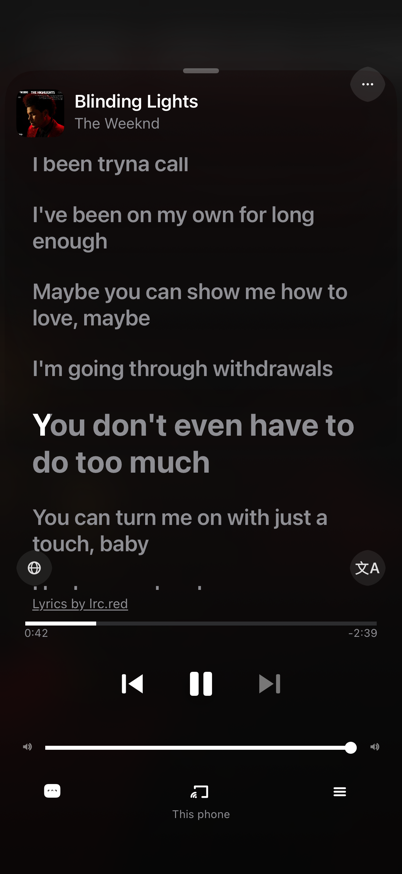
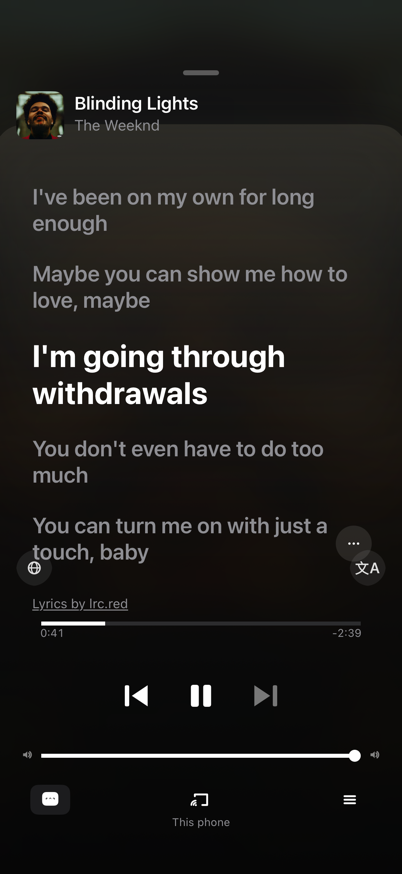
Match the player header, glyphs and empty lyrics state
Header cover/type/disc and transport sizes come from the reference capture; the
scrubber is the real 3pt track again, the footer pill is 32x22, and an empty
result now says No lyrics for this track with No lyrics found under it.

Generated with Codebuff

diff --git a/v2/BitChordIOS12/Sources/NowPlayingViewController.swift b/v2/BitChordIOS12/Sources/NowPlayingViewController.swift
@@ -14,6 +14,7 @@ final class NowPlayingViewController: UIViewController {
     private let glowLayer = CAGradientLayer()
     private let lyricsTable = UITableView(frame: .zero, style: .plain)
     private let lyricsSourceLabel = UILabel()
+    private let emptyLyricsLabel = UILabel()
     private let compactHeader = UIView()
     private let headerArtwork = UIImageView()
     private let headerTitle = UILabel()
@@ -204,18 +205,18 @@ final class NowPlayingViewController: UIViewController {
         headerArtwork.translatesAutoresizingMaskIntoConstraints = false
         headerArtwork.contentMode = .scaleAspectFill
         headerArtwork.clipsToBounds = true
-        headerArtwork.layer.cornerRadius = 10
+        headerArtwork.layer.cornerRadius = 4
         headerArtwork.backgroundColor = Theme.surfaceVariant
         compactHeader.addSubview(headerArtwork)
 
         headerTitle.translatesAutoresizingMaskIntoConstraints = false
-        headerTitle.font = Theme.font(18, weight: .semibold)
+        headerTitle.font = Theme.font(22, weight: .bold)
         headerTitle.textColor = Theme.primaryText
         headerTitle.lineBreakMode = .byTruncatingTail
         compactHeader.addSubview(headerTitle)
 
         headerArtist.translatesAutoresizingMaskIntoConstraints = false
-        headerArtist.font = Theme.font(15)
+        headerArtist.font = Theme.font(17)
         headerArtist.textColor = Theme.secondaryText
         headerArtist.lineBreakMode = .byTruncatingTail
         compactHeader.addSubview(headerArtist)
@@ -223,8 +224,8 @@ final class NowPlayingViewController: UIViewController {
         NSLayoutConstraint.activate([
             headerArtwork.leadingAnchor.constraint(equalTo: compactHeader.leadingAnchor),
             headerArtwork.centerYAnchor.constraint(equalTo: compactHeader.centerYAnchor),
-            headerArtwork.widthAnchor.constraint(equalToConstant: 48),
-            headerArtwork.heightAnchor.constraint(equalToConstant: 48),
+            headerArtwork.widthAnchor.constraint(equalToConstant: 45),
+            headerArtwork.heightAnchor.constraint(equalToConstant: 45),
             headerTitle.leadingAnchor.constraint(equalTo: headerArtwork.trailingAnchor, constant: 10),
             headerTitle.trailingAnchor.constraint(equalTo: compactHeader.trailingAnchor),
             headerTitle.bottomAnchor.constraint(equalTo: compactHeader.centerYAnchor, constant: -1),
@@ -264,8 +265,8 @@ final class NowPlayingViewController: UIViewController {
         modeButton.translatesAutoresizingMaskIntoConstraints = false
         modeButton.tintColor = Theme.primaryText
         modeButton.backgroundColor = Theme.surfaceVariant
-        modeButton.layer.cornerRadius = 8
-        modeButton.setImage(Icons.image(.bubble, size: 22), for: .normal)
+        modeButton.layer.cornerRadius = 7
+        modeButton.setImage(Icons.image(.bubble, size: 18), for: .normal)
         modeButton.addTarget(self, action: #selector(toggleMode), for: .touchUpInside)
         modeButton.isHidden = true
         view.addSubview(modeButton)
@@ -290,6 +291,14 @@ final class NowPlayingViewController: UIViewController {
         lyricsSourceLabel.textAlignment = .left
         lyricsSourceLabel.isHidden = true
         view.addSubview(lyricsSourceLabel)
+
+        emptyLyricsLabel.translatesAutoresizingMaskIntoConstraints = false
+        emptyLyricsLabel.text = "No lyrics for this track"
+        emptyLyricsLabel.font = Theme.font(20)
+        emptyLyricsLabel.textColor = Theme.secondaryText
+        emptyLyricsLabel.textAlignment = .center
+        emptyLyricsLabel.isHidden = true
+        view.addSubview(emptyLyricsLabel)
 
         NSLayoutConstraint.activate([
             meshView.topAnchor.constraint(equalTo: view.topAnchor),
@@ -348,7 +357,7 @@ final class NowPlayingViewController: UIViewController {
         }
 
         configureTransportButton(shuffleButton, icon: .shuffle, size: 20, action: #selector(goShuffle))
-        configureTransportButton(previousButton, icon: .previous, size: 44, action: #selector(goPrevious))
+        configureTransportButton(previousButton, icon: .previous, size: 36, action: #selector(goPrevious))
         configureTransportButton(playButton, icon: .play, size: 26, action: #selector(togglePlay))
         playButton.backgroundColor = .white
         playButton.layer.cornerRadius = 32
@@ -357,7 +366,7 @@ final class NowPlayingViewController: UIViewController {
         playButton.layer.shadowOpacity = 0.35
         playButton.layer.shadowRadius = 12
         playButton.layer.shadowOffset = CGSize(width: 0, height: 6)
-        configureTransportButton(nextButton, icon: .next, size: 44, action: #selector(goNext))
+        configureTransportButton(nextButton, icon: .next, size: 36, action: #selector(goNext))
         configureTransportButton(repeatButton, icon: .repeatAll, size: 20, action: #selector(goRepeat))
 
         configureTransportButton(likeButton, icon: .heart, size: 22, action: #selector(toggleLike))
@@ -408,6 +417,10 @@ final class NowPlayingViewController: UIViewController {
             artworkView.trailingAnchor.constraint(equalTo: view.trailingAnchor, constant: -30),
             artworkView.heightAnchor.constraint(equalTo: artworkView.widthAnchor),
 
+            emptyLyricsLabel.centerXAnchor.constraint(equalTo: view.centerXAnchor),
+            emptyLyricsLabel.centerYAnchor.constraint(equalTo: lyricsTable.centerYAnchor),
+            emptyLyricsLabel.leadingAnchor.constraint(greaterThanOrEqualTo: view.leadingAnchor, constant: 32),
+
             lyricsTable.leadingAnchor.constraint(equalTo: view.leadingAnchor),
             lyricsTable.trailingAnchor.constraint(equalTo: view.trailingAnchor),
             lyricsTable.bottomAnchor.constraint(equalTo: lyricsSourceLabel.topAnchor, constant: -6),
@@ -432,8 +445,8 @@ final class NowPlayingViewController: UIViewController {
 
             toggleButton.trailingAnchor.constraint(equalTo: view.trailingAnchor, constant: -30),
             toggleButton.centerYAnchor.constraint(equalTo: titleLabel.centerYAnchor, constant: 10),
-            toggleButton.widthAnchor.constraint(equalToConstant: 36),
-            toggleButton.heightAnchor.constraint(equalToConstant: 36),
+            toggleButton.widthAnchor.constraint(equalToConstant: 44),
+            toggleButton.heightAnchor.constraint(equalToConstant: 44),
 
             peekLabel.topAnchor.constraint(equalTo: artistLabel.bottomAnchor, constant: 20),
             peekLabel.leadingAnchor.constraint(equalTo: view.leadingAnchor, constant: 30),
@@ -464,8 +477,8 @@ final class NowPlayingViewController: UIViewController {
 
             modeButton.leadingAnchor.constraint(equalTo: view.leadingAnchor, constant: 30),
             modeButton.centerYAnchor.constraint(equalTo: likeButton.centerYAnchor),
-            modeButton.widthAnchor.constraint(equalToConstant: 40),
-            modeButton.heightAnchor.constraint(equalToConstant: 30),
+            modeButton.widthAnchor.constraint(equalToConstant: 32),
+            modeButton.heightAnchor.constraint(equalToConstant: 22),
 
             outputButton.centerXAnchor.constraint(equalTo: view.centerXAnchor),
             outputButton.centerYAnchor.constraint(equalTo: likeButton.centerYAnchor),
@@ -567,7 +580,7 @@ final class NowPlayingViewController: UIViewController {
         playButton.layer.shadowOpacity = 0
         playButton.tintColor = Theme.primaryText
         playButton.imageEdgeInsets = .zero
-        playButton.setImage(Icons.image(PlayerService.shared.isPlaying ? .pause : .play, size: 44), for: .normal)
+        playButton.setImage(Icons.image(PlayerService.shared.isPlaying ? .pause : .play, size: 34), for: .normal)
         // In lyrics mode the cover itself is the backdrop: the dark blur
         // effect above it softens it exactly the way the real panel does.
         backdropView.alpha = lyrics ? 0.9 : 0
@@ -593,14 +606,15 @@ final class NowPlayingViewController: UIViewController {
         closeButton.isHidden = true
         toggleButton.setTitle(nil, for: .normal)
         toggleButton.backgroundColor = UIColor(white: 1, alpha: 0.10)
-        toggleButton.layer.cornerRadius = 18
+        toggleButton.layer.cornerRadius = 22
         slider.setThumbImage(lyrics ? UIImage() : Theme.thumbImage(), for: .normal)
-        toggleButton.setImage(Icons.image(.ellipsis, size: 18), for: .normal)
+        toggleButton.setImage(Icons.image(.ellipsis, size: 20), for: .normal)
         lyricsTopCompact?.isActive = lyrics
         lyricsTopDefault?.isActive = !lyrics
         titleUnderArtwork?.isActive = true
         titleUnderClose?.isActive = false
         lyricsTable.isHidden = !lyrics
+        emptyLyricsLabel.isHidden = !lyrics || !currentLyrics.isEmpty
         lyricsSourceLabel.isHidden = !lyrics
         toggleButton.setTitle(nil, for: .normal)
         if !lyrics {
@@ -677,15 +691,15 @@ final class NowPlayingViewController: UIViewController {
             lyricsSynced = service.lyricsAreSynced
             lyricHighlight = -1
             lyricHeights.removeAll()
-            if service.lyricsSource.isEmpty {
-                lyricsSourceLabel.attributedText = nil
-            } else {
-                lyricsSourceLabel.attributedText = NSAttributedString(
-                    string: "Lyrics by " + service.lyricsSource,
-                    attributes: [.font: Theme.font(13),
-                                 .foregroundColor: Theme.secondaryText,
-                                 .underlineStyle: NSUnderlineStyle.single.rawValue])
-            }
+            let caption = service.lyricsSource.isEmpty
+                ? "No lyrics found"
+                : "Lyrics by " + service.lyricsSource
+            lyricsSourceLabel.attributedText = NSAttributedString(
+                string: caption,
+                attributes: [.font: Theme.font(13),
+                             .foregroundColor: Theme.secondaryText,
+                             .underlineStyle: NSUnderlineStyle.single.rawValue])
+            emptyLyricsLabel.isHidden = !currentLyrics.isEmpty
             lyricsTable.reloadData()
             if !currentLyrics.isEmpty {
                 lyricsTable.setContentOffset(.zero, animated: false)

diff --git a/v2/BitChordIOS12/Sources/Theme.swift b/v2/BitChordIOS12/Sources/Theme.swift
@@ -102,9 +102,9 @@ enum Theme {
 
     // MARK: - Scrubber
 
-    /// A 4pt track image: the thin-slider look in `UISlider` form (iOS 12-safe).
+    /// A 3pt track image: the thin-slider look in `UISlider` form (iOS 12-safe).
     static func trackImage(_ color: UIColor) -> UIImage {
-        let size = CGSize(width: 4, height: 4)
+        let size = CGSize(width: 4, height: 3)
         let image = UIGraphicsImageRenderer(size: size).image { _ in
             color.setFill()
             UIRectFill(CGRect(origin: .zero, size: size))
